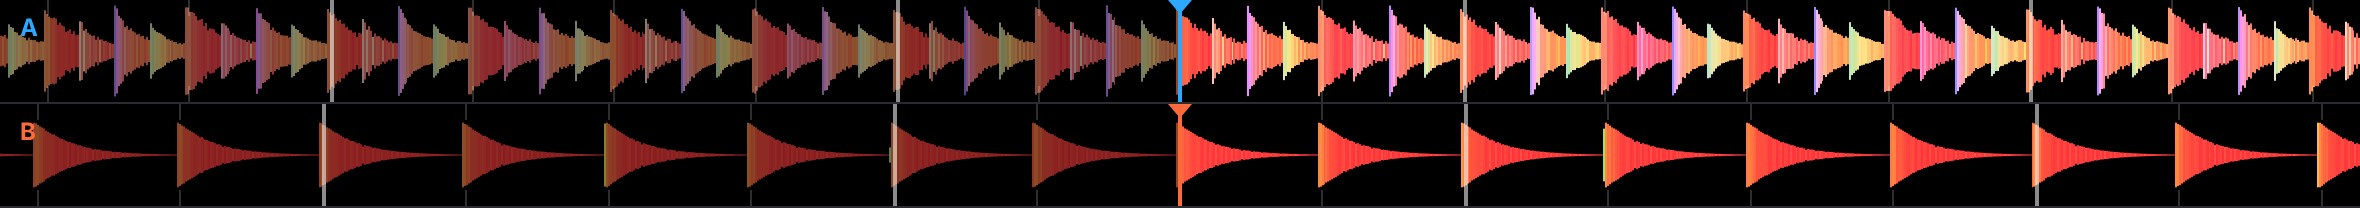
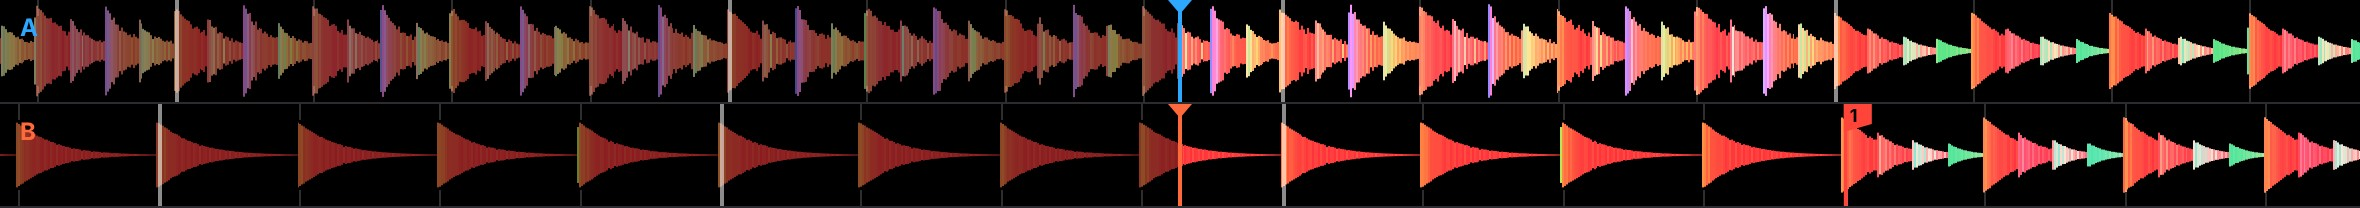
Vista all'avvio a scelta, sito con la vista AI e foto rifatte
- Impostazioni > AI locale > Vista: all'avvio l'ultima usata (predefinito),
  la console classica o la vista AI; la vista resta sempre selezionabile
- sito: nuova sezione sulla vista AI con la sua foto
- foto del sito rifatte con il selettore Console | AI e un bass swap in corso,
  coerente con la didascalia della foto principale

Claude-Session: https://claude.ai/code/session_01H9XLAipspB9mGv44kd1UWg

diff --git a/site/index.html b/site/index.html
@@ -113,6 +113,15 @@
       <img src="img/waves.jpg" alt="Forme d'onda colorate per frequenza dei due deck, allineate alla battuta" loading="lazy">
       <figcaption>I due brani, uno sopra l'altro, con le battute allineate. Il colore indica le frequenze: rosso per i bassi, verde per i medi, blu per gli alti.</figcaption>
     </figure>
+
+    <div class="view-copy reveal">
+      <h3>Una vista solo per l'AI.<br>La console, quando vuoi tu.</h3>
+      <p>Con il selettore <strong>Console | AI</strong> passi a una vista pensata per il mix automatico e i mashup: il brano in onda e il prossimo in grande, l'avanzamento della transizione e le impostazioni dell'AI DJ in primo piano. Quando vuoi mettere le mani sul mix torni alla console: l'AI continua a suonare e tu mixi sopra. La scelta è sempre tua, anche la vista con cui si apre l'app.</p>
+    </div>
+    <figure class="view-shot reveal">
+      <img src="img/ai-view.jpg" alt="Vista AI di Segueo: brano in uscita e in entrata, avanzamento della transizione, crossfader, comandi dell'AI DJ, libreria e impostazioni dell'AI DJ con coda" loading="lazy">
+      <figcaption>La vista AI a metà di un bass swap. In basso a destra, le impostazioni dell'AI DJ accanto alla coda.</figcaption>
+    </figure>
   </section>
 
   <!-- MODELLI AI INCLUSI -->
@@ -220,7 +229,7 @@
         <p class="lead">Analisi, scelte e mix avvengono in locale. Se colleghi un modello linguistico, anche quello gira sulla tua macchina: nessun brano, titolo o dato lascia il PC.</p>
       </div>
       <figure class="split-shot reveal">
-        <img src="img/settings-ai.jpg" alt="Impostazioni dell'AI: motore di analisi Beat This! e modello linguistico locale facoltativo" loading="lazy">
+        <img src="img/settings-ai.jpg" alt="Impostazioni dell'AI: motore di analisi Beat This!, vista all'avvio e modello linguistico locale facoltativo" loading="lazy">
       </figure>
     </div>
   </section>

diff --git a/src/renderer/js/ui/settings-ui.js b/src/renderer/js/ui/settings-ui.js
@@ -319,6 +319,15 @@ function aiPage(app) {
     el('label', { class: 'check' }, auto, 'Analizza automaticamente i nuovi brani della libreria in background'),
     field('Motore di analisi', engine, 'L\'analisi classica dà subito BPM e forma d\'onda; con l\'AI, Beat This! (una rete neurale che gira sul computer, solo con la CPU) rifinisce poi in background battute, battuta forte e struttura. Se il modello manca o dà errore resta l\'analisi classica. Le griglie corrette a mano non vengono toccate.'),
     engineStatus,
+    el('div', { class: 'section-title' }, 'Vista'),
+    field('Vista all\'avvio', select([
+      { value: 'last', label: 'L\'ultima usata' },
+      { value: 'console', label: 'Console classica' },
+      { value: 'ai', label: 'Vista AI (mix automatico e mashup)' },
+    ], app.settings.ui.startView || 'last', (v) => {
+      app.settings.ui.startView = v;
+      app.saveSettings();
+    }), 'La vista si cambia in ogni momento con Console | AI in alto o con Ctrl+Shift+A. L\'AI DJ si accende solo quando lo decidi tu, in qualsiasi vista.'),
     el('div', { class: 'section-title' }, 'Modello linguistico locale (facoltativo)'),
     el('p', { class: 'field-hint' }, 'Collega un LLM che gira sul tuo computer per scegliere i brani con "gusto" e creare scalette descritte a parole ("set deep house al tramonto"). Nessun dato esce dal tuo PC. Installa Ollama da ollama.com, poi nel terminale: ollama pull llama3.2'),
     el('label', { class: 'check' }, enable, 'Usa il modello locale'),

diff --git a/site/styles.css b/site/styles.css
@@ -110,6 +110,12 @@ figcaption { font-size: 14px; color: var(--ink-3); margin-top: 16px; text-align:
 .waves-shot { max-width: 1200px; margin: 104px auto 0; padding: 0 22px; }
 .waves-shot img { border-radius: 12px; border: 1px solid #2a2a2c; }
 .dark figcaption { color: var(--dark-ink-2); }
+.view-copy { max-width: 780px; margin: 120px auto 0; padding: 0 22px; text-align: center; }
+.view-copy h3 { font-size: clamp(30px, 3.6vw, 40px); line-height: 1.1; margin-bottom: 18px; }
+.view-copy p { font-size: 19px; color: var(--dark-ink-2); line-height: 1.45; }
+.view-copy strong { color: var(--dark-ink); font-weight: 600; }
+.view-shot { max-width: 1200px; margin: 48px auto 0; padding: 0 22px; }
+.view-shot img { width: 100%; border-radius: 14px; border: 1px solid #2a2a2c; box-shadow: 0 30px 60px -24px rgba(0, 0, 0, .8); }
 
 /* --- In arrivo --------------------------------------------------------------- */
 .soon { padding: 128px 22px; background: var(--bg); }

diff --git a/src/renderer/js/app.js b/src/renderer/js/app.js
@@ -43,7 +43,8 @@ const DEFAULT_SETTINGS = {
     options: {},
   },
   updates: { auto: true },
-  ui: { view: 'console' }, // 'console' (classica) oppure 'ai' (vista dedicata all'AI DJ)
+  // view: ultima vista usata, 'console' (classica) o 'ai' (dedicata all'AI DJ); startView: 'last', 'console' o 'ai'
+  ui: { view: 'console', startView: 'last' },
 };
 
 function merge(defaults, saved) {
@@ -249,7 +250,8 @@ class App {
     const bottom = el('div', { class: 'bottom' }, libHost, sideHost);
     this.aiView = new AiView(el('section', {}), { app: this, accents: ACCENTS });
     root.append(top, waves, middle, this.aiView.root, bottom);
-    this.setView(this.settings.ui.view, { save: false });
+    const start = this.settings.ui.startView;
+    this.setView(start === 'console' || start === 'ai' ? start : this.settings.ui.view, { save: false });
 
     let libTimer = null;
     for (const d of this.decks) {
